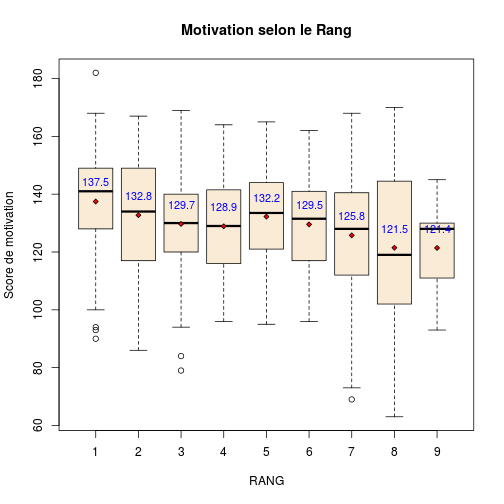
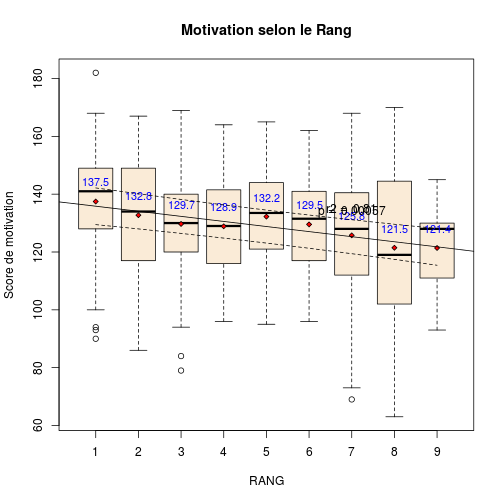
last

diff --git a/Dossier_final_2014/tableau_final.html b/Dossier_final_2014/tableau_final.html
@@ -135,6 +135,43 @@ hr {
 
 </style>
 
+<!-- Styles for R syntax highlighter -->
+<style type="text/css">
+   pre .operator,
+   pre .paren {
+     color: rgb(104, 118, 135)
+   }
+
+   pre .literal {
+     color: rgb(88, 72, 246)
+   }
+
+   pre .number {
+     color: rgb(0, 0, 205);
+   }
+
+   pre .comment {
+     color: rgb(76, 136, 107);
+   }
+
+   pre .keyword {
+     color: rgb(0, 0, 255);
+   }
+
+   pre .identifier {
+     color: rgb(0, 0, 0);
+   }
+
+   pre .string {
+     color: rgb(3, 106, 7);
+   }
+</style>
+
+<!-- R syntax highlighter -->
+<script type="text/javascript">
+var hljs=new function(){function m(p){return p.replace(/&/gm,"&amp;").replace(/</gm,"&lt;")}function f(r,q,p){return RegExp(q,"m"+(r.cI?"i":"")+(p?"g":""))}function b(r){for(var p=0;p<r.childNodes.length;p++){var q=r.childNodes[p];if(q.nodeName=="CODE"){return q}if(!(q.nodeType==3&&q.nodeValue.match(/\s+/))){break}}}function h(t,s){var p="";for(var r=0;r<t.childNodes.length;r++){if(t.childNodes[r].nodeType==3){var q=t.childNodes[r].nodeValue;if(s){q=q.replace(/\n/g,"")}p+=q}else{if(t.childNodes[r].nodeName=="BR"){p+="\n"}else{p+=h(t.childNodes[r])}}}if(/MSIE [678]/.test(navigator.userAgent)){p=p.replace(/\r/g,"\n")}return p}function a(s){var r=s.className.split(/\s+/);r=r.concat(s.parentNode.className.split(/\s+/));for(var q=0;q<r.length;q++){var p=r[q].replace(/^language-/,"");if(e[p]){return p}}}function c(q){var p=[];(function(s,t){for(var r=0;r<s.childNodes.length;r++){if(s.childNodes[r].nodeType==3){t+=s.childNodes[r].nodeValue.length}else{if(s.childNodes[r].nodeName=="BR"){t+=1}else{if(s.childNodes[r].nodeType==1){p.push({event:"start",offset:t,node:s.childNodes[r]});t=arguments.callee(s.childNodes[r],t);p.push({event:"stop",offset:t,node:s.childNodes[r]})}}}}return t})(q,0);return p}function k(y,w,x){var q=0;var z="";var s=[];function u(){if(y.length&&w.length){if(y[0].offset!=w[0].offset){return(y[0].offset<w[0].offset)?y:w}else{return w[0].event=="start"?y:w}}else{return y.length?y:w}}function t(D){var A="<"+D.nodeName.toLowerCase();for(var B=0;B<D.attributes.length;B++){var C=D.attributes[B];A+=" "+C.nodeName.toLowerCase();if(C.value!==undefined&&C.value!==false&&C.value!==null){A+='="'+m(C.value)+'"'}}return A+">"}while(y.length||w.length){var v=u().splice(0,1)[0];z+=m(x.substr(q,v.offset-q));q=v.offset;if(v.event=="start"){z+=t(v.node);s.push(v.node)}else{if(v.event=="stop"){var p,r=s.length;do{r--;p=s[r];z+=("</"+p.nodeName.toLowerCase()+">")}while(p!=v.node);s.splice(r,1);while(r<s.length){z+=t(s[r]);r++}}}}return z+m(x.substr(q))}function j(){function q(x,y,v){if(x.compiled){return}var u;var s=[];if(x.k){x.lR=f(y,x.l||hljs.IR,true);for(var w in x.k){if(!x.k.hasOwnProperty(w)){continue}if(x.k[w] instanceof Object){u=x.k[w]}else{u=x.k;w="keyword"}for(var r in u){if(!u.hasOwnProperty(r)){continue}x.k[r]=[w,u[r]];s.push(r)}}}if(!v){if(x.bWK){x.b="\\b("+s.join("|")+")\\s"}x.bR=f(y,x.b?x.b:"\\B|\\b");if(!x.e&&!x.eW){x.e="\\B|\\b"}if(x.e){x.eR=f(y,x.e)}}if(x.i){x.iR=f(y,x.i)}if(x.r===undefined){x.r=1}if(!x.c){x.c=[]}x.compiled=true;for(var t=0;t<x.c.length;t++){if(x.c[t]=="self"){x.c[t]=x}q(x.c[t],y,false)}if(x.starts){q(x.starts,y,false)}}for(var p in e){if(!e.hasOwnProperty(p)){continue}q(e[p].dM,e[p],true)}}function d(B,C){if(!j.called){j();j.called=true}function q(r,M){for(var L=0;L<M.c.length;L++){if((M.c[L].bR.exec(r)||[null])[0]==r){return M.c[L]}}}function v(L,r){if(D[L].e&&D[L].eR.test(r)){return 1}if(D[L].eW){var M=v(L-1,r);return M?M+1:0}return 0}function w(r,L){return L.i&&L.iR.test(r)}function K(N,O){var M=[];for(var L=0;L<N.c.length;L++){M.push(N.c[L].b)}var r=D.length-1;do{if(D[r].e){M.push(D[r].e)}r--}while(D[r+1].eW);if(N.i){M.push(N.i)}return f(O,M.join("|"),true)}function p(M,L){var N=D[D.length-1];if(!N.t){N.t=K(N,E)}N.t.lastIndex=L;var r=N.t.exec(M);return r?[M.substr(L,r.index-L),r[0],false]:[M.substr(L),"",true]}function z(N,r){var L=E.cI?r[0].toLowerCase():r[0];var M=N.k[L];if(M&&M instanceof Array){return M}return false}function F(L,P){L=m(L);if(!P.k){return L}var r="";var O=0;P.lR.lastIndex=0;var M=P.lR.exec(L);while(M){r+=L.substr(O,M.index-O);var N=z(P,M);if(N){x+=N[1];r+='<span class="'+N[0]+'">'+M[0]+"</span>"}else{r+=M[0]}O=P.lR.lastIndex;M=P.lR.exec(L)}return r+L.substr(O,L.length-O)}function J(L,M){if(M.sL&&e[M.sL]){var r=d(M.sL,L);x+=r.keyword_count;return r.value}else{return F(L,M)}}function I(M,r){var L=M.cN?'<span class="'+M.cN+'">':"";if(M.rB){y+=L;M.buffer=""}else{if(M.eB){y+=m(r)+L;M.buffer=""}else{y+=L;M.buffer=r}}D.push(M);A+=M.r}function G(N,M,Q){var R=D[D.length-1];if(Q){y+=J(R.buffer+N,R);return false}var P=q(M,R);if(P){y+=J(R.buffer+N,R);I(P,M);return P.rB}var L=v(D.length-1,M);if(L){var O=R.cN?"</span>":"";if(R.rE){y+=J(R.buffer+N,R)+O}else{if(R.eE){y+=J(R.buffer+N,R)+O+m(M)}else{y+=J(R.buffer+N+M,R)+O}}while(L>1){O=D[D.length-2].cN?"</span>":"";y+=O;L--;D.length--}var r=D[D.length-1];D.length--;D[D.length-1].buffer="";if(r.starts){I(r.starts,"")}return R.rE}if(w(M,R)){throw"Illegal"}}var E=e[B];var D=[E.dM];var A=0;var x=0;var y="";try{var s,u=0;E.dM.buffer="";do{s=p(C,u);var t=G(s[0],s[1],s[2]);u+=s[0].length;if(!t){u+=s[1].length}}while(!s[2]);if(D.length>1){throw"Illegal"}return{r:A,keyword_count:x,value:y}}catch(H){if(H=="Illegal"){return{r:0,keyword_count:0,value:m(C)}}else{throw H}}}function g(t){var p={keyword_count:0,r:0,value:m(t)};var r=p;for(var q in e){if(!e.hasOwnProperty(q)){continue}var s=d(q,t);s.language=q;if(s.keyword_count+s.r>r.keyword_count+r.r){r=s}if(s.keyword_count+s.r>p.keyword_count+p.r){r=p;p=s}}if(r.language){p.second_best=r}return p}function i(r,q,p){if(q){r=r.replace(/^((<[^>]+>|\t)+)/gm,function(t,w,v,u){return w.replace(/\t/g,q)})}if(p){r=r.replace(/\n/g,"<br>")}return r}function n(t,w,r){var x=h(t,r);var v=a(t);var y,s;if(v){y=d(v,x)}else{return}var q=c(t);if(q.length){s=document.createElement("pre");s.innerHTML=y.value;y.value=k(q,c(s),x)}y.value=i(y.value,w,r);var u=t.className;if(!u.match("(\\s|^)(language-)?"+v+"(\\s|$)")){u=u?(u+" "+v):v}if(/MSIE [678]/.test(navigator.userAgent)&&t.tagName=="CODE"&&t.parentNode.tagName=="PRE"){s=t.parentNode;var p=document.createElement("div");p.innerHTML="<pre><code>"+y.value+"</code></pre>";t=p.firstChild.firstChild;p.firstChild.cN=s.cN;s.parentNode.replaceChild(p.firstChild,s)}else{t.innerHTML=y.value}t.className=u;t.result={language:v,kw:y.keyword_count,re:y.r};if(y.second_best){t.second_best={language:y.second_best.language,kw:y.second_best.keyword_count,re:y.second_best.r}}}function o(){if(o.called){return}o.called=true;var r=document.getElementsByTagName("pre");for(var p=0;p<r.length;p++){var q=b(r[p]);if(q){n(q,hljs.tabReplace)}}}function l(){if(window.addEventListener){window.addEventListener("DOMContentLoaded",o,false);window.addEventListener("load",o,false)}else{if(window.attachEvent){window.attachEvent("onload",o)}else{window.onload=o}}}var e={};this.LANGUAGES=e;this.highlight=d;this.highlightAuto=g;this.fixMarkup=i;this.highlightBlock=n;this.initHighlighting=o;this.initHighlightingOnLoad=l;this.IR="[a-zA-Z][a-zA-Z0-9_]*";this.UIR="[a-zA-Z_][a-zA-Z0-9_]*";this.NR="\\b\\d+(\\.\\d+)?";this.CNR="\\b(0[xX][a-fA-F0-9]+|(\\d+(\\.\\d*)?|\\.\\d+)([eE][-+]?\\d+)?)";this.BNR="\\b(0b[01]+)";this.RSR="!|!=|!==|%|%=|&|&&|&=|\\*|\\*=|\\+|\\+=|,|\\.|-|-=|/|/=|:|;|<|<<|<<=|<=|=|==|===|>|>=|>>|>>=|>>>|>>>=|\\?|\\[|\\{|\\(|\\^|\\^=|\\||\\|=|\\|\\||~";this.ER="(?![\\s\\S])";this.BE={b:"\\\\.",r:0};this.ASM={cN:"string",b:"'",e:"'",i:"\\n",c:[this.BE],r:0};this.QSM={cN:"string",b:'"',e:'"',i:"\\n",c:[this.BE],r:0};this.CLCM={cN:"comment",b:"//",e:"$"};this.CBLCLM={cN:"comment",b:"/\\*",e:"\\*/"};this.HCM={cN:"comment",b:"#",e:"$"};this.NM={cN:"number",b:this.NR,r:0};this.CNM={cN:"number",b:this.CNR,r:0};this.BNM={cN:"number",b:this.BNR,r:0};this.inherit=function(r,s){var p={};for(var q in r){p[q]=r[q]}if(s){for(var q in s){p[q]=s[q]}}return p}}();hljs.LANGUAGES.cpp=function(){var a={keyword:{"false":1,"int":1,"float":1,"while":1,"private":1,"char":1,"catch":1,"export":1,virtual:1,operator:2,sizeof:2,dynamic_cast:2,typedef:2,const_cast:2,"const":1,struct:1,"for":1,static_cast:2,union:1,namespace:1,unsigned:1,"long":1,"throw":1,"volatile":2,"static":1,"protected":1,bool:1,template:1,mutable:1,"if":1,"public":1,friend:2,"do":1,"return":1,"goto":1,auto:1,"void":2,"enum":1,"else":1,"break":1,"new":1,extern:1,using:1,"true":1,"class":1,asm:1,"case":1,typeid:1,"short":1,reinterpret_cast:2,"default":1,"double":1,register:1,explicit:1,signed:1,typename:1,"try":1,"this":1,"switch":1,"continue":1,wchar_t:1,inline:1,"delete":1,alignof:1,char16_t:1,char32_t:1,constexpr:1,decltype:1,noexcept:1,nullptr:1,static_assert:1,thread_local:1,restrict:1,_Bool:1,complex:1},built_in:{std:1,string:1,cin:1,cout:1,cerr:1,clog:1,stringstream:1,istringstream:1,ostringstream:1,auto_ptr:1,deque:1,list:1,queue:1,stack:1,vector:1,map:1,set:1,bitset:1,multiset:1,multimap:1,unordered_set:1,unordered_map:1,unordered_multiset:1,unordered_multimap:1,array:1,shared_ptr:1}};return{dM:{k:a,i:"</",c:[hljs.CLCM,hljs.CBLCLM,hljs.QSM,{cN:"string",b:"'\\\\?.",e:"'",i:"."},{cN:"number",b:"\\b(\\d+(\\.\\d*)?|\\.\\d+)(u|U|l|L|ul|UL|f|F)"},hljs.CNM,{cN:"preprocessor",b:"#",e:"$"},{cN:"stl_container",b:"\\b(deque|list|queue|stack|vector|map|set|bitset|multiset|multimap|unordered_map|unordered_set|unordered_multiset|unordered_multimap|array)\\s*<",e:">",k:a,r:10,c:["self"]}]}}}();hljs.LANGUAGES.r={dM:{c:[hljs.HCM,{cN:"number",b:"\\b0[xX][0-9a-fA-F]+[Li]?\\b",e:hljs.IMMEDIATE_RE,r:0},{cN:"number",b:"\\b\\d+(?:[eE][+\\-]?\\d*)?L\\b",e:hljs.IMMEDIATE_RE,r:0},{cN:"number",b:"\\b\\d+\\.(?!\\d)(?:i\\b)?",e:hljs.IMMEDIATE_RE,r:1},{cN:"number",b:"\\b\\d+(?:\\.\\d*)?(?:[eE][+\\-]?\\d*)?i?\\b",e:hljs.IMMEDIATE_RE,r:0},{cN:"number",b:"\\.\\d+(?:[eE][+\\-]?\\d*)?i?\\b",e:hljs.IMMEDIATE_RE,r:1},{cN:"keyword",b:"(?:tryCatch|library|setGeneric|setGroupGeneric)\\b",e:hljs.IMMEDIATE_RE,r:10},{cN:"keyword",b:"\\.\\.\\.",e:hljs.IMMEDIATE_RE,r:10},{cN:"keyword",b:"\\.\\.\\d+(?![\\w.])",e:hljs.IMMEDIATE_RE,r:10},{cN:"keyword",b:"\\b(?:function)",e:hljs.IMMEDIATE_RE,r:2},{cN:"keyword",b:"(?:if|in|break|next|repeat|else|for|return|switch|while|try|stop|warning|require|attach|detach|source|setMethod|setClass)\\b",e:hljs.IMMEDIATE_RE,r:1},{cN:"literal",b:"(?:NA|NA_integer_|NA_real_|NA_character_|NA_complex_)\\b",e:hljs.IMMEDIATE_RE,r:10},{cN:"literal",b:"(?:NULL|TRUE|FALSE|T|F|Inf|NaN)\\b",e:hljs.IMMEDIATE_RE,r:1},{cN:"identifier",b:"[a-zA-Z.][a-zA-Z0-9._]*\\b",e:hljs.IMMEDIATE_RE,r:0},{cN:"operator",b:"<\\-(?!\\s*\\d)",e:hljs.IMMEDIATE_RE,r:2},{cN:"operator",b:"\\->|<\\-",e:hljs.IMMEDIATE_RE,r:1},{cN:"operator",b:"%%|~",e:hljs.IMMEDIATE_RE},{cN:"operator",b:">=|<=|==|!=|\\|\\||&&|=|\\+|\\-|\\*|/|\\^|>|<|!|&|\\||\\$|:",e:hljs.IMMEDIATE_RE,r:0},{cN:"operator",b:"%",e:"%",i:"\\n",r:1},{cN:"identifier",b:"`",e:"`",r:0},{cN:"string",b:'"',e:'"',c:[hljs.BE],r:0},{cN:"string",b:"'",e:"'",c:[hljs.BE],r:0},{cN:"paren",b:"[[({\\])}]",e:hljs.IMMEDIATE_RE,r:0}]}};
+hljs.initHighlightingOnLoad();
+</script>
 
 
 
@@ -164,6 +201,60 @@ CSP[CSP==&ldquo;ET IADE &rdquo;] &lt;- &ldquo;EIADE&rdquo;
 CSP[CSP==&ldquo;ETCADRE &rdquo;] &lt;- &ldquo;ECADRE&rdquo;
 CSP&lt;-as.factor(CSP)</p>
 
+<h2>Session Info</h2>
+
+<pre><code class="r">sessionInfo()
+</code></pre>
+
+<pre><code>## R version 3.1.0 (2014-04-10)
+## Platform: x86_64-pc-linux-gnu (64-bit)
+## 
+## locale:
+##  [1] LC_CTYPE=fr_FR.UTF-8       LC_NUMERIC=C              
+##  [3] LC_TIME=fr_FR.UTF-8        LC_COLLATE=fr_FR.UTF-8    
+##  [5] LC_MONETARY=fr_FR.UTF-8    LC_MESSAGES=fr_FR.UTF-8   
+##  [7] LC_PAPER=fr_FR.UTF-8       LC_NAME=C                 
+##  [9] LC_ADDRESS=C               LC_TELEPHONE=C            
+## [11] LC_MEASUREMENT=fr_FR.UTF-8 LC_IDENTIFICATION=C       
+## 
+## attached base packages:
+## [1] stats     graphics  grDevices utils     datasets  methods   base     
+## 
+## other attached packages:
+## [1] knitr_1.6
+## 
+## loaded via a namespace (and not attached):
+## [1] evaluate_0.5.5 formatR_0.10   stringr_0.6.2  tools_3.1.0
+</code></pre>
+
+<pre><code class="r">citation()
+</code></pre>
+
+<pre><code>## 
+## To cite R in publications use:
+## 
+##   R Core Team (2014). R: A language and environment for
+##   statistical computing. R Foundation for Statistical Computing,
+##   Vienna, Austria. URL http://www.R-project.org/.
+## 
+## A BibTeX entry for LaTeX users is
+## 
+##   @Manual{,
+##     title = {R: A Language and Environment for Statistical Computing},
+##     author = {{R Core Team}},
+##     organization = {R Foundation for Statistical Computing},
+##     address = {Vienna, Austria},
+##     year = {2014},
+##     url = {http://www.R-project.org/},
+##   }
+## 
+## We have invested a lot of time and effort in creating R, please
+## cite it when using it for data analysis. See also
+## &#39;citation(&quot;pkgname&quot;)&#39; for citing R packages.
+</code></pre>
+
+<h2>Analyse du fichier Master2</h2>
+
 <ul>
 <li>on forme une colonne <strong>motivation</strong> qui est la somme des 26 questions posées:</li>
 </ul>
@@ -176,8 +267,12 @@ CSP&lt;-as.factor(CSP)</p>
 ##       39      477       37       16       24
 </code></pre>
 
-<pre><code>##    1    2    3    4    5    6    7    8    9 NA&#39;s 
-##   60   89   99   87   94   74   52   32    5    1
+<pre><code>## [1] &quot;Nombre d&#39;étudiants par rang:&quot;
+</code></pre>
+
+<pre><code>##            1  2  3  4  5  6  7  8 9
+## Rang       1  2  3  4  5  6  7  8 9
+## Etudiants 60 89 99 87 94 74 52 32 5
 </code></pre>
 
 <p>La moyenne et la médiane sont proches ce qui permet de considérer (avec l&#39;aspet de l&#39;histogramme) que les données sont sensiblement normales.</p>
@@ -282,6 +377,17 @@ CSP&lt;-as.factor(CSP)</p>
 ## 137.5 132.8 129.7 128.9 132.2 129.5 125.8 121.5 121.4
 </code></pre>
 
+<pre><code>##     1     2     3     4     5     6     7     8     9 
+## 19.04 20.78 17.27 18.16 16.88 14.84 22.54 27.74 19.93
+</code></pre>
+
+<pre><code>##          Rang 1 Rang 2 Rang 3 Rang 4 Rang 5 Rang 6 Rang 7 Rang 8 Rang 9
+## moyenne  137.47 132.75 129.72 128.90 132.24 129.54 125.76 121.47 121.40
+## Ecart-T   19.04  20.78  17.27  18.16  16.88  14.84  22.54  27.74  19.93
+## Médiane  141.00 134.00 130.00 129.00 133.50 131.50 128.00 119.00 128.00
+## effectif  60.00  89.00  99.00  87.00  94.00  74.00  52.00  32.00   5.00
+</code></pre>
+
[1 lines of base64/hex data omitted]
 
 <pre><code>##              Df Sum Sq Mean Sq F value  Pr(&gt;F)    
@@ -298,6 +404,33 @@ CSP&lt;-as.factor(CSP)</p>
 <pre><code>## Error: no factors in the fitted model
 </code></pre>
 
+<pre><code>## [1] &quot;Etude de la corrélation&quot;
+</code></pre>
+
+<pre><code>## 
+## Call:
+## lm(formula = means ~ rang)
+## 
+## Residuals:
+##    Min     1Q Median     3Q    Max 
+##  -2.60  -1.67  -0.38   1.64   3.44 
+## 
+## Coefficients:
+##             Estimate Std. Error t value Pr(&gt;|t|)    
+## (Intercept)  137.587      1.662   82.78  9.9e-12 ***
+## rang          -1.756      0.295   -5.95  0.00057 ***
+## ---
+## Signif. codes:  0 &#39;***&#39; 0.001 &#39;**&#39; 0.01 &#39;*&#39; 0.05 &#39;.&#39; 0.1 &#39; &#39; 1
+## 
+## Residual standard error: 2.29 on 7 degrees of freedom
+## Multiple R-squared:  0.835,  Adjusted R-squared:  0.811 
+## F-statistic: 35.4 on 1 and 7 DF,  p-value: 0.000572
+</code></pre>
+
[1 lines of base64/hex data omitted]
+R2 est le coefficient de détermination: Plus cette valeur sera proche de 1 meilleur sera l’ajustement.
+S’interprete comme la proportion de variabilité du score moyen de motivation expliqué par le rang. </p>
+
 <h2>Motivation versus RANG et CSP</h2>
 
 <p>On s&#39;intéresse à la relation entre la motivation et les rang ET la CSP. En analyse individuelle on amontré qu&#39;il y avait une relation entre la motivation et le rang et la CSP. Qu&#39;est-ce qui se passe si on étudie cette relation quand on teste l&#39;effet simultanné de ces 2 facteurs? On fabrique 2 modèles. Dans le premier on teste la motivation versus le rang et la CSP selon un modèle additif simple: la motivation peut s&#39;explique par la somme du choix du rang et la CSP. Dans le second modèle on ajoute,le poids de l&#39;interaction rang x CSP (le choix du rang dépend t il de la CSP ?). 
@@ -309,6 +442,8 @@ Dans le modèle 2 on motre qu&#39;il y a une relation significative entre le ran
 <ul>
 <li>les groupes par CSP sont faibles et disproportionnés (EI écrase les autres)</li>
 </ul>
+
+<p>RQ: sortie très longue car le programme teste toites les combinaisons possibles de CSP et de Rang&hellip;</p>
 
 <pre><code>##              Df Sum Sq Mean Sq F value  Pr(&gt;F)    
 ## CSP           5   8579    1716    5.03 0.00016 ***

diff --git a/Dossier_final_2014/tableau_final.md b/Dossier_final_2014/tableau_final.md
@@ -16,7 +16,65 @@ CSP[CSP=="ET IADE "] <- "EIADE"
 CSP[CSP=="ETCADRE "] <- "ECADRE"
 CSP<-as.factor(CSP)
 
+Session Info
+------------
 
+```r
+sessionInfo()
+```
+
+```
+## R version 3.1.0 (2014-04-10)
+## Platform: x86_64-pc-linux-gnu (64-bit)
+## 
+## locale:
+##  [1] LC_CTYPE=fr_FR.UTF-8       LC_NUMERIC=C              
+##  [3] LC_TIME=fr_FR.UTF-8        LC_COLLATE=fr_FR.UTF-8    
+##  [5] LC_MONETARY=fr_FR.UTF-8    LC_MESSAGES=fr_FR.UTF-8   
+##  [7] LC_PAPER=fr_FR.UTF-8       LC_NAME=C                 
+##  [9] LC_ADDRESS=C               LC_TELEPHONE=C            
+## [11] LC_MEASUREMENT=fr_FR.UTF-8 LC_IDENTIFICATION=C       
+## 
+## attached base packages:
+## [1] stats     graphics  grDevices utils     datasets  methods   base     
+## 
+## other attached packages:
+## [1] knitr_1.6
+## 
+## loaded via a namespace (and not attached):
+## [1] evaluate_0.5.5 formatR_0.10   stringr_0.6.2  tools_3.1.0
+```
+
+```r
+citation()
+```
+
+```
+## 
+## To cite R in publications use:
+## 
+##   R Core Team (2014). R: A language and environment for
+##   statistical computing. R Foundation for Statistical Computing,
+##   Vienna, Austria. URL http://www.R-project.org/.
+## 
+## A BibTeX entry for LaTeX users is
+## 
+##   @Manual{,
+##     title = {R: A Language and Environment for Statistical Computing},
+##     author = {{R Core Team}},
+##     organization = {R Foundation for Statistical Computing},
+##     address = {Vienna, Austria},
+##     year = {2014},
+##     url = {http://www.R-project.org/},
+##   }
+## 
+## We have invested a lot of time and effort in creating R, please
+## cite it when using it for data analysis. See also
+## 'citation("pkgname")' for citing R packages.
+```
+
+Analyse du fichier Master2
+--------------------------
 
 
 - on forme une colonne **motivation** qui est la somme des 26 questions posées:
@@ -33,9 +91,15 @@ CSP<-as.factor(CSP)
 ```
 
 ```
-##    1    2    3    4    5    6    7    8    9 NA's 
-##   60   89   99   87   94   74   52   32    5    1
+## [1] "Nombre d'étudiants par rang:"
 ```
+
+```
+##            1  2  3  4  5  6  7  8 9
+## Rang       1  2  3  4  5  6  7  8 9
+## Etudiants 60 89 99 87 94 74 52 32 5
+```
+
 
 La moyenne et la médiane sont proches ce qui permet de considérer (avec l'aspet de l'histogramme) que les données sont sensiblement normales.
 
@@ -143,7 +207,20 @@ L'interaction motivation x rang est sigificative: le choix du rang dépend de la
 ## 137.5 132.8 129.7 128.9 132.2 129.5 125.8 121.5 121.4
 ```
 
-![plot of chunk rang](figure/rang.png) 
+```
+##     1     2     3     4     5     6     7     8     9 
+## 19.04 20.78 17.27 18.16 16.88 14.84 22.54 27.74 19.93
+```
+
+```
+##          Rang 1 Rang 2 Rang 3 Rang 4 Rang 5 Rang 6 Rang 7 Rang 8 Rang 9
+## moyenne  137.47 132.75 129.72 128.90 132.24 129.54 125.76 121.47 121.40
+## Ecart-T   19.04  20.78  17.27  18.16  16.88  14.84  22.54  27.74  19.93
+## Médiane  141.00 134.00 130.00 129.00 133.50 131.50 128.00 119.00 128.00
+## effectif  60.00  89.00  99.00  87.00  94.00  74.00  52.00  32.00   5.00
+```
+
+![plot of chunk rang](figure/rang1.png) 
 
 ```
 ##              Df Sum Sq Mean Sq F value  Pr(>F)    
@@ -162,6 +239,35 @@ L'interaction motivation x rang est sigificative: le choix du rang dépend de la
 ## Error: no factors in the fitted model
 ```
 
+```
+## [1] "Etude de la corrélation"
+```
+
+```
+## 
+## Call:
+## lm(formula = means ~ rang)
+## 
+## Residuals:
+##    Min     1Q Median     3Q    Max 
+##  -2.60  -1.67  -0.38   1.64   3.44 
+## 
+## Coefficients:
+##             Estimate Std. Error t value Pr(>|t|)    
+## (Intercept)  137.587      1.662   82.78  9.9e-12 ***
+## rang          -1.756      0.295   -5.95  0.00057 ***
+## ---
+## Signif. codes:  0 '***' 0.001 '**' 0.01 '*' 0.05 '.' 0.1 ' ' 1
+## 
+## Residual standard error: 2.29 on 7 degrees of freedom
+## Multiple R-squared:  0.835,	Adjusted R-squared:  0.811 
+## F-statistic: 35.4 on 1 and 7 DF,  p-value: 0.000572
+```
+
+![plot of chunk rang](figure/rang2.png) 
+R2 est le coefficient de détermination: Plus cette valeur sera proche de 1 meilleur sera l’ajustement.
+S’interprete comme la proportion de variabilité du score moyen de motivation expliqué par le rang. 
+
 Motivation versus RANG et CSP
 ----------------------------
 On s'intéresse à la relation entre la motivation et les rang ET la CSP. En analyse individuelle on amontré qu'il y avait une relation entre la motivation et le rang et la CSP. Qu'est-ce qui se passe si on étudie cette relation quand on teste l'effet simultanné de ces 2 facteurs? On fabrique 2 modèles. Dans le premier on teste la motivation versus le rang et la CSP selon un modèle additif simple: la motivation peut s'explique par la somme du choix du rang et la CSP. Dans le second modèle on ajoute,le poids de l'interaction rang x CSP (le choix du rang dépend t il de la CSP ?). 
@@ -171,6 +277,7 @@ Dans le modèle 2 on motre qu'il y a une relation significative entre le rang et
 Limites de l'interprétation
 - les groupes par CSP sont faibles et disproportionnés (EI écrase les autres)
 
+RQ: sortie très longue car le programme teste toites les combinaisons possibles de CSP et de Rang...
 
 
 ```
